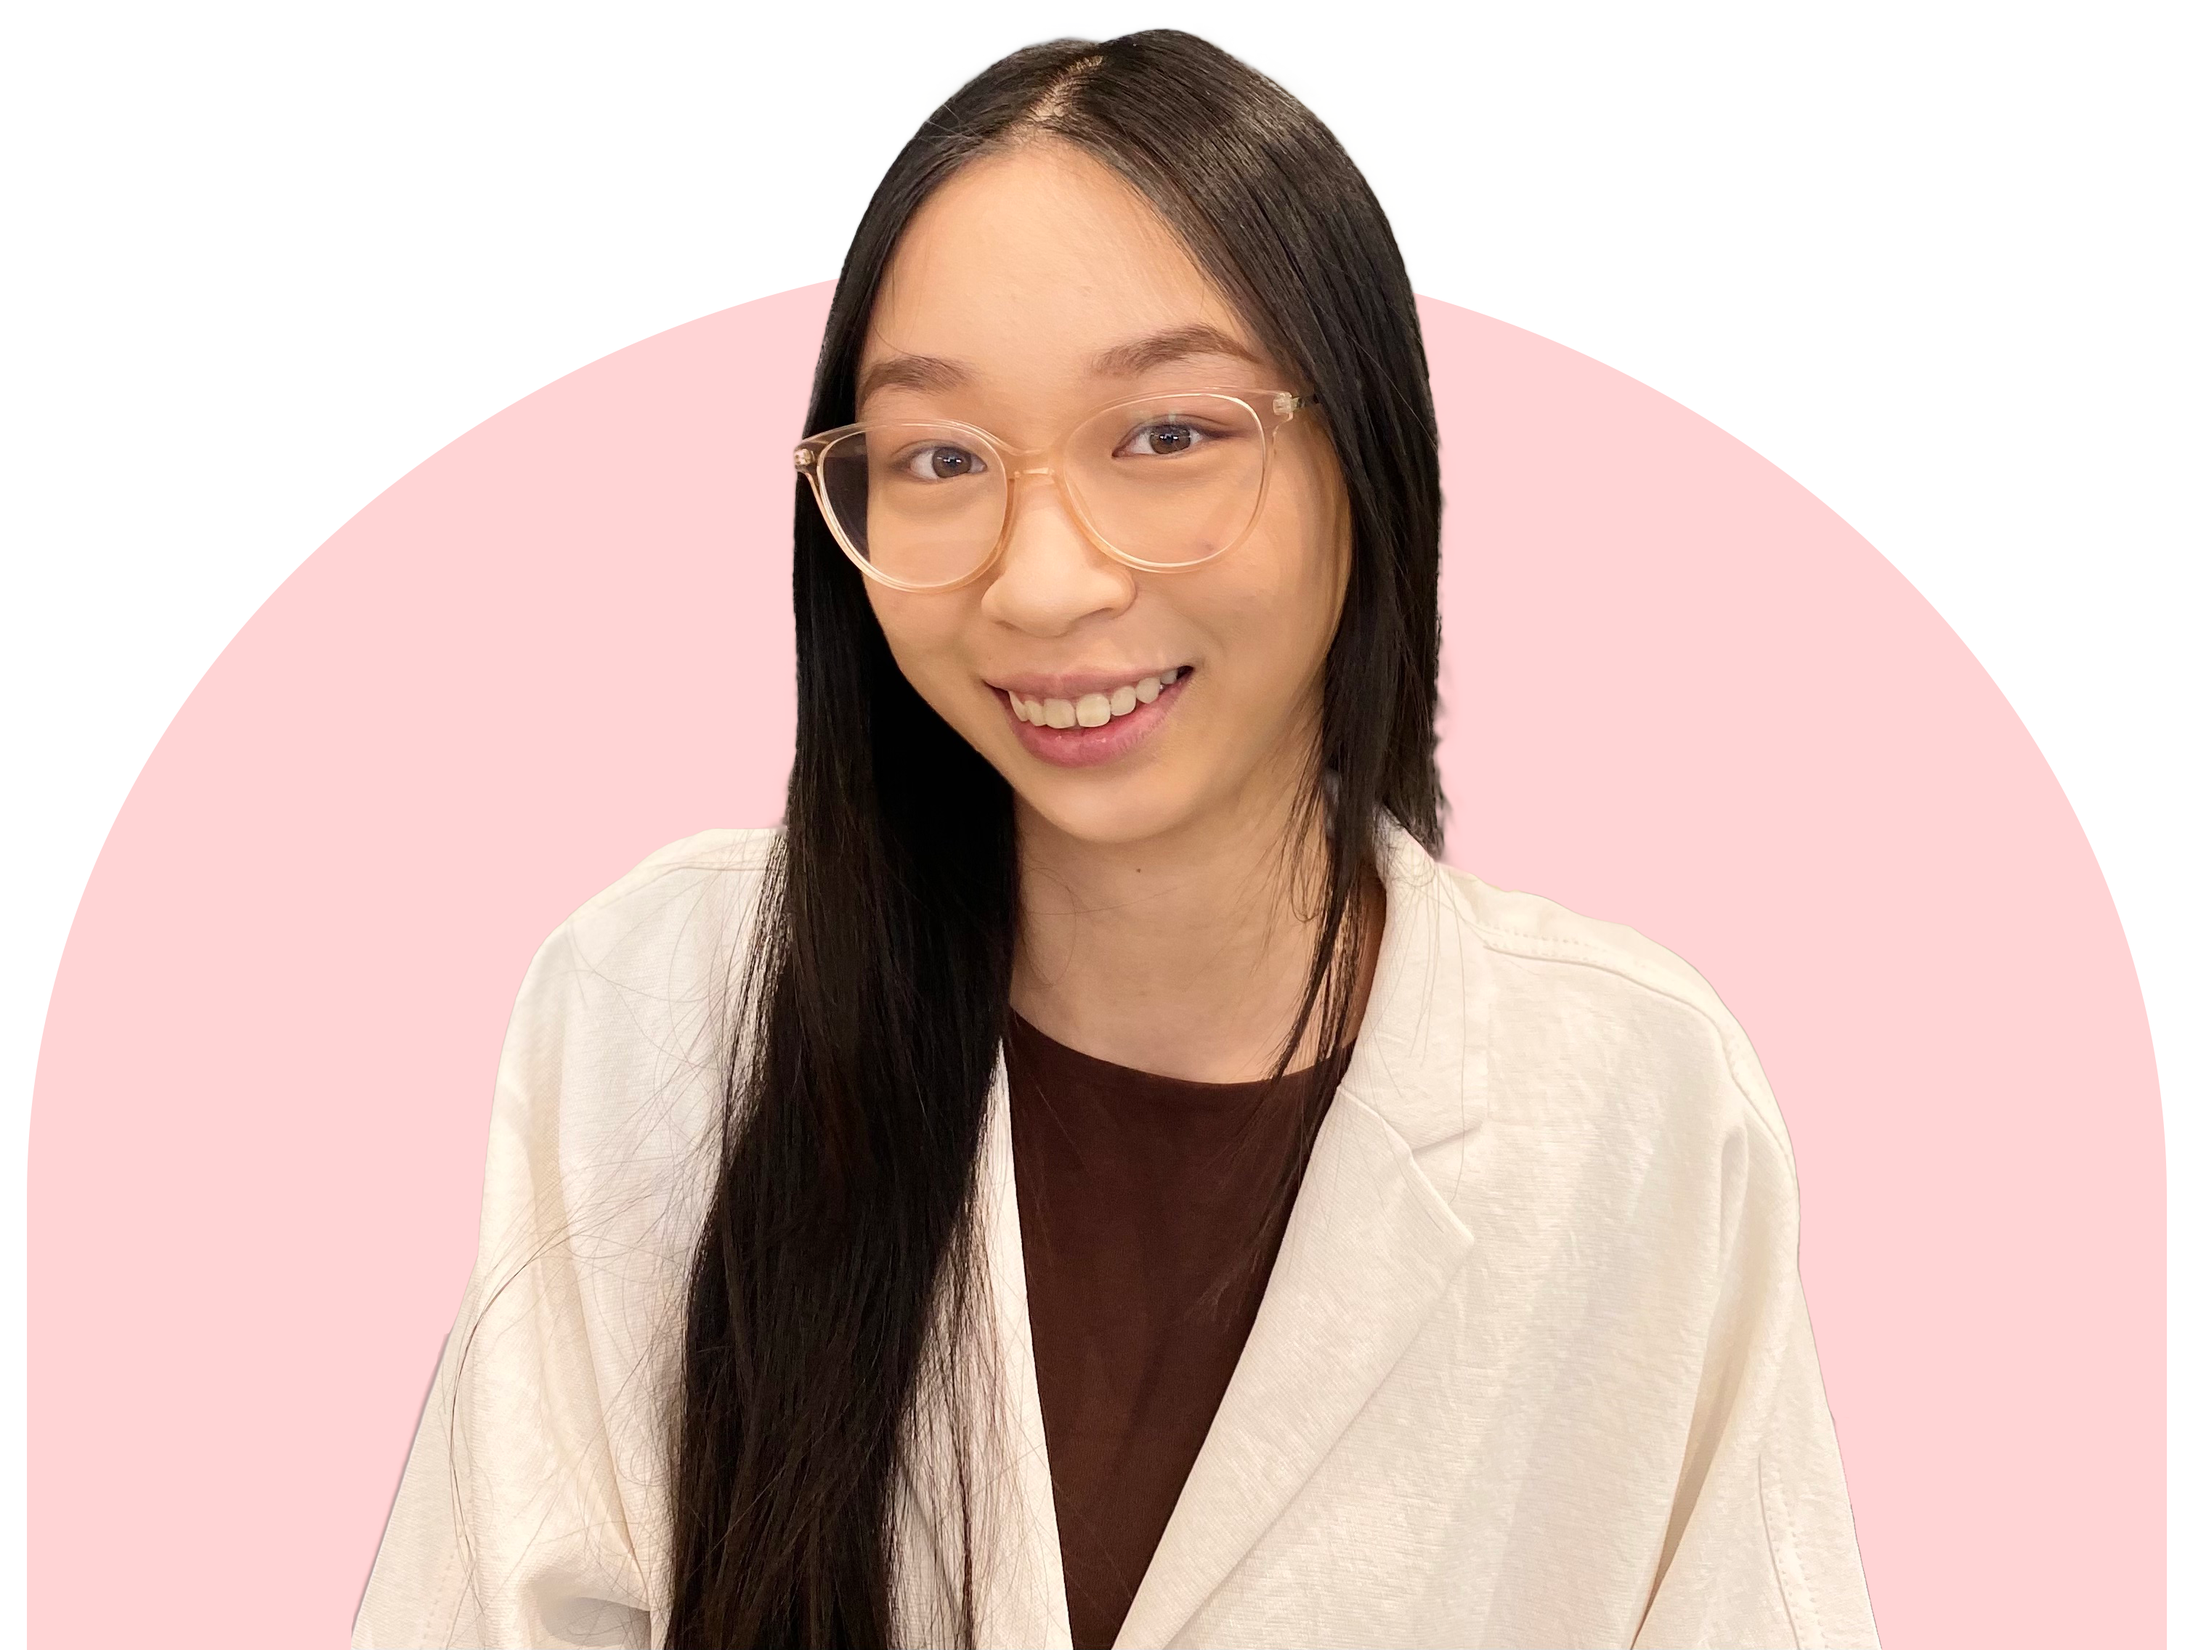
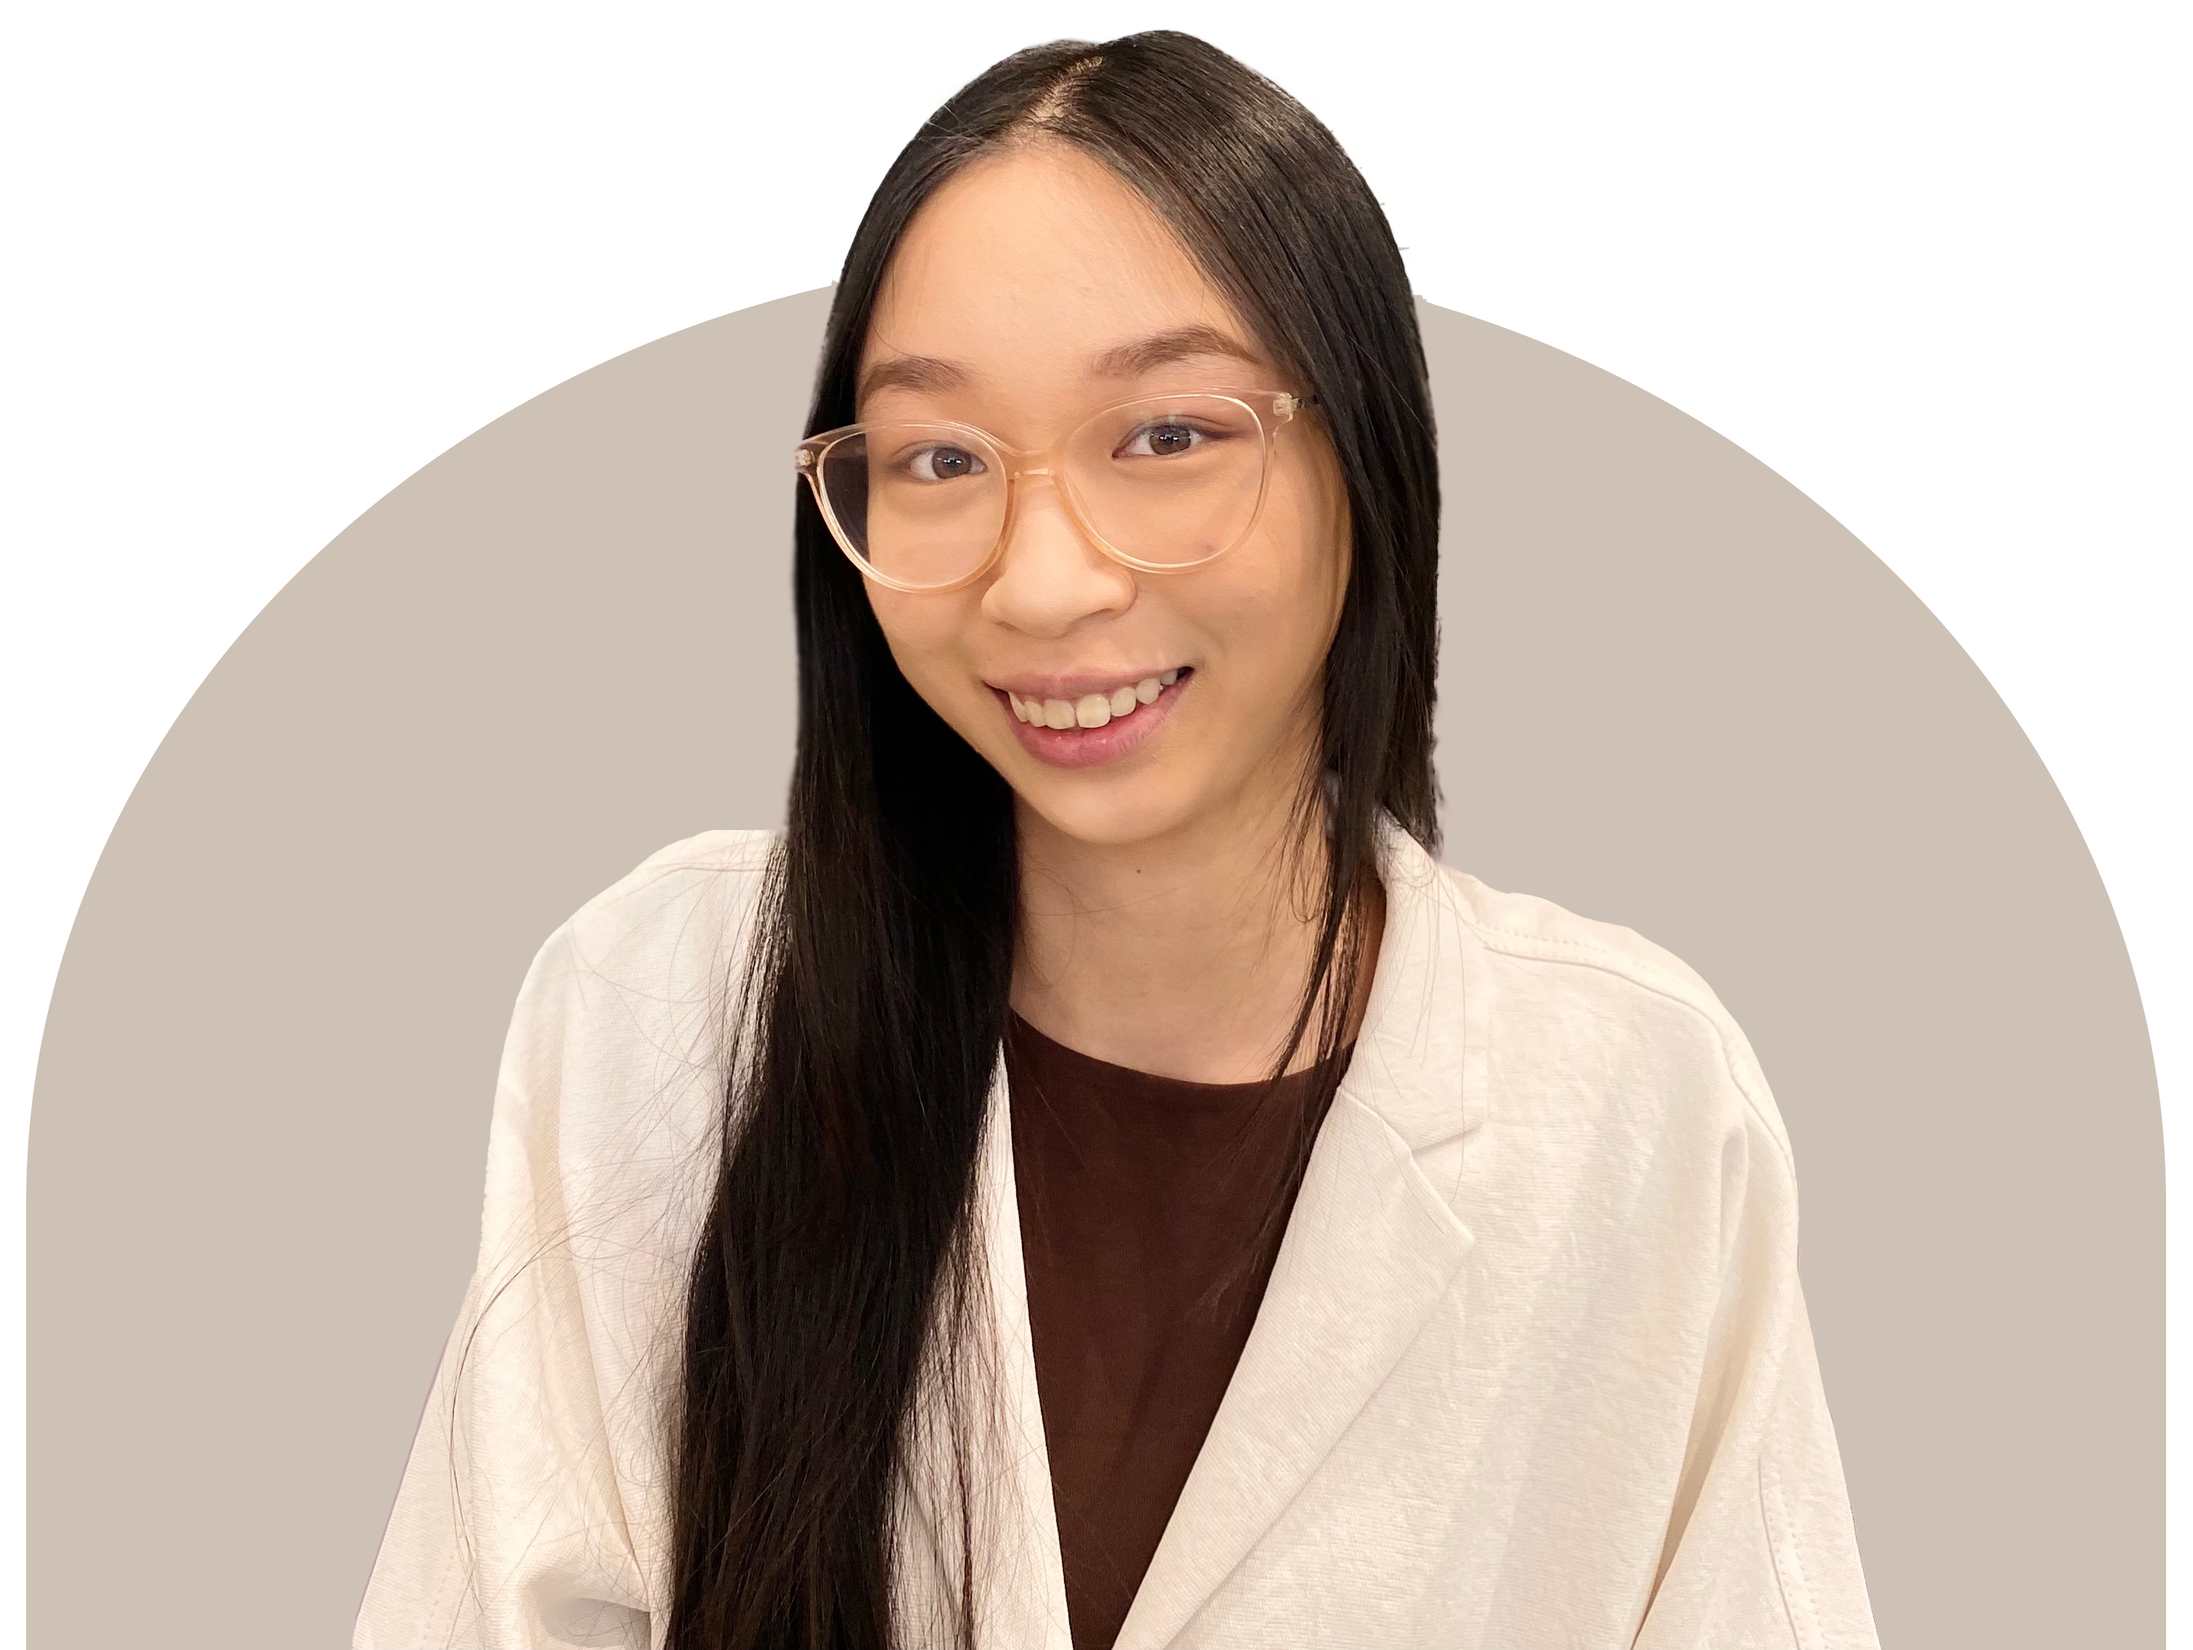
Changed the colors of my portfolio

diff --git a/src/styles/pages/about.css b/src/styles/pages/about.css
@@ -1,6 +1,15 @@
 @media (min-width: 992px) {
   .about-text h1 {
-    font-size: 64px;
+    font-size: 48px;
+  }
+
+  .about-text h2 {
+    font-size: 36px;
+  }
+
+  .about-text h3 {
+    font-size: 18px;
+    font-weight: bolder;
   }
 }
 
@@ -34,15 +43,18 @@
 }
 
 .about-text {
-  background-color: #FFD6D6;
+  background-color: #A0BAA7;
   padding: 65px;
   border-radius: 10px;
 }
 
+.about-text h2 {
+  color: #678E72;
+}
+
 .about-text h1,
-.about-text h2,
 .about-text h3 {
-  color: #A0BAA6;
+  color: #FFF6EB;
 }
 
 .about-text h1 {
@@ -56,12 +68,12 @@
 
 .about-text a {
   text-decoration: none;
-  color: #A0BAA6;
+  color: #678E72;
 }
 
 .about-text a:hover {
   text-decoration: none;
-  color: #89A991;
+  color: #18231B;
 }
 
 .about-text svg {

diff --git a/src/pages/header.js b/src/pages/header.js
@@ -1,6 +1,6 @@
 import React from 'react'
 import Navbar from "../components/navbar"
-// import profile from "../images/profile.png"
+import profile from "../images/profile.png"
 
 export default function Header() {
   return (
@@ -14,7 +14,7 @@ export default function Header() {
               <h2>Hi, that's Me!</h2>
 
               <div className='pink-image'>
-                <img src="../images/profile.png" alt="Portrait of Laura"/>
+                <img src={profile} alt="Portrait of Laura"/>
 
                 <div className='vertical-text'>
                   <h3>FULL-STACK</h3>

diff --git a/src/pages/about.js b/src/pages/about.js
@@ -7,7 +7,7 @@ export default function About() {
       <div className='about-text'>
         <h2>WHO AM I</h2>
         <h1>Laura You-Li Chen</h1>
-        <h3>Full Stack Developer</h3>
+        <h3>FULL-STACK DEVELOPER</h3>
         <p>
           Newly graduated from Le Wagon bootcamp, I chose web development because
           it requires technology, art and design all at once, which is what I am

diff --git a/src/styles/components/navbar.css b/src/styles/components/navbar.css
@@ -7,12 +7,13 @@
 }
 
 #navbar a {
-  color: #271619;
-  font-weight: bold;
+  color: #7D6B58;
+  font-weight: bolder;
+  font-size: 20px;
 }
 
 #navbar a:hover {
-  color: #89A991;
+  color: #271619;
 }
 
 #navbar .navbar-links {

diff --git a/src/styles/style.css b/src/styles/style.css
@@ -16,7 +16,7 @@ h2, h3 {
   font-weight: 200;
 }
 
-p {
+p, a {
   font-family: 'Dosis', sans-serif;
   font-weight: 400;
 }

diff --git a/src/styles/pages/technology.css b/src/styles/pages/technology.css
@@ -1,5 +1,5 @@
 #technology {
-  background-color: #89A991;
+  background-color: #18231B;
   padding: 100px 0;
 }
 
